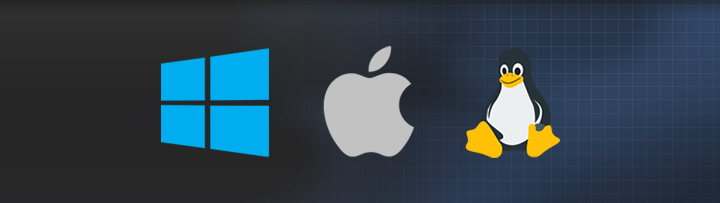
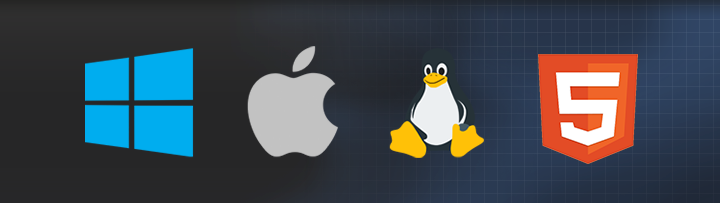
*v0.9.2.

Changed region(s): [[0.0917, 0.2365, 0.8861, 0.8276]]

diff --git a/docs/index.html b/docs/index.html
@@ -56,7 +56,7 @@
 
         <br>
 
-        Bitty Engine is an itty bitty <b>Game Engine</b>. The full featured engine is programmable in Lua and integrated with built-in editors. It keeps the nature of both engine's productivity, and fantasy computer/console's simplicity.
+        Bitty Engine is an itty bitty <b>Game Engine</b>. The full featured engine is programmable in Lua and integrated with built-in editors. It keeps the nature of both engine's productivity, and fantasy computer/console's ease to iterate.
       </p>
 
       <p align="left">
@@ -182,7 +182,7 @@
 
         <br>
 
-        Bitty Engine helps you to make standalone binaries for Windows, MacOS, Linux. It is redistributable for both non-commercial and commercial use without extra fee, your project is totally yours.
+        Bitty Engine helps you to make standalone binaries for Windows, MacOS, Linux and HTML (WebAssembly). It is redistributable for both non-commercial and commercial use without extra fee, your project is totally yours.
       </p>
 
       <h2>
@@ -195,7 +195,7 @@
       </p>
 
       <p align="center">
-        Get the trial version to try out language, libraries, editors, pipelines, etc. from <a href="https://store.steampowered.com/app/1386180/" target="_blank">Steam</a> also.
+        Get the trial version from <a href="https://store.steampowered.com/app/1386180/" target="_blank">Steam</a> also to try out language, libraries, editors, pipelines, etc.
       </p>
 
       <h2>
@@ -213,7 +213,7 @@
           <tbody>
             <tr>
               <td>OS</td>
-              <td>Windows 7/8/10 (32/64bit), MacOS X 10.7 or later (64bit), Ubuntu 14 or later (32/64bit)</td>
+              <td>Windows 7/8/10 (32/64bit), MacOS 10.7 or later (64bit), Ubuntu 14 or later (32/64bit)</td>
             </tr>
             <tr>
               <td>Processor</td>
@@ -229,7 +229,7 @@
             </tr>
             <tr>
               <td>Storage</td>
-              <td>100 MB available space</td>
+              <td>150 MB available space</td>
             </tr>
           </tbody>
         </table>
@@ -238,7 +238,7 @@
       <hr>
 
       <p align="center">
-        © 2020 <a href="https://paladin-t.github.io/" target="_blank">Tony Wang</a> |
+        © 2020 - 2021 <a href="https://paladin-t.github.io/" target="_blank">Tony Wang</a> |
         <a href="changelog.html">Changelog</a>
       </p>
     </div>

diff --git a/docs/about.html b/docs/about.html
@@ -87,7 +87,7 @@
       <hr>
 
       <p align="center">
-        © 2020 <a href="https://paladin-t.github.io/" target="_blank">Tony Wang</a> |
+        © 2020 - 2021 <a href="https://paladin-t.github.io/" target="_blank">Tony Wang</a> |
         <a href="changelog.html">Changelog</a>
       </p>
     </div>

diff --git a/docs/changelog.html b/docs/changelog.html
@@ -43,7 +43,7 @@
       <hr>
 
       <p align="center">
-        © 2020 <a href="https://paladin-t.github.io/" target="_blank">Tony Wang</a> |
+        © 2020 - 2021 <a href="https://paladin-t.github.io/" target="_blank">Tony Wang</a> |
         <a href="changelog.html">Changelog</a>
       </p>
     </div>

diff --git a/docs/documents.html b/docs/documents.html
@@ -42,7 +42,7 @@
       <hr>
 
       <p align="center">
-        © 2020 <a href="https://paladin-t.github.io/" target="_blank">Tony Wang</a> |
+        © 2020 - 2021 <a href="https://paladin-t.github.io/" target="_blank">Tony Wang</a> |
         <a href="changelog.html">Changelog</a>
       </p>
     </div>

diff --git a/docs/manual.html b/docs/manual.html
@@ -50,7 +50,7 @@
       <hr>
 
       <p align="center">
-        © 2020 <a href="https://paladin-t.github.io/" target="_blank">Tony Wang</a> |
+        © 2020 - 2021 <a href="https://paladin-t.github.io/" target="_blank">Tony Wang</a> |
         <a href="changelog.html">Changelog</a>
       </p>
     </div>

diff --git a/docs/operations.html b/docs/operations.html
@@ -50,7 +50,7 @@
       <hr>
 
       <p align="center">
-        © 2020 <a href="https://paladin-t.github.io/" target="_blank">Tony Wang</a> |
+        © 2020 - 2021 <a href="https://paladin-t.github.io/" target="_blank">Tony Wang</a> |
         <a href="changelog.html">Changelog</a>
       </p>
     </div>

diff --git a/docs/style.css b/docs/style.css
@@ -17,7 +17,7 @@ a:visited {
   width: 750px;
   margin: 2em auto;
   padding: 20px 50px;
-  border-radius: 1em;
+  border-radius: 4px;
   background-color: #fff;
   box-shadow: 0px 0px 20px 8px #969696;
   -webkit-box-shadow: 0px 0px 20px 8px #969696;

diff --git a/docs/CHANGELOG.md b/docs/CHANGELOG.md
@@ -1,3 +1,15 @@
+### v0.9.2 beta Dec. 31, 2020
+
+Added HTML builder. Enhanced modules, fixed some bugs.
+
+* Added binary builders for HTML (WebAssembly)
+* Added support to load `Font` object from file directly
+* Fixed a UTF-8 rendering issue of the `text(...)` function
+* Fixed a resolving issue of the `fetch(...)` function
+* Fixed a popup representation issue with built binary
+* Fixed a crash bug with JSON editor (Linux)
+* Fixed a crash bug of the `input(...)` function
+
 ### v0.9.1 beta Dec. 25, 2020
 
 Enhanced modules, improved high-DPI awareness on MacOS, fixed some bugs.
@@ -23,8 +35,8 @@ Added MacOS and Linux versions. Enhanced modules, improved usability, fixed some
 * Added `Promise.Pending`, `Promise.Resolved`, `Promise.Rejected` constant
 * Added `promise.state`, `promise.value` fields
 * Fixed an interaction blocking issue with minor buttons
-* Fixed a text encoding bug with the `Platform.surf(...)`, `Platform.browse(...)` methods
-* Fixed a browsing bug with the frame recorder
+* Fixed a text encoding bug of the `Platform.surf(...)`, `Platform.browse(...)` methods
+* Fixed a browsing bug of the frame recorder
 * Fixed a calculation bug of `vec3:dot(vec3_)`
 * Improved responsiveness for project saving
 * Upgraded Lua from v5.4.1 to v5.4.2
@@ -56,9 +68,9 @@ Improved usability, fixed some bugs, and finished the manual.
 * Added tooltips for some unobvious operations
 * Added detailed font customization by config
 * Changed the `bytes:readBytes(...)`, `file:readBytes(...)` methods, the results' cursor will be at the end
-* Fixed a variable value inspecting bug with the debugger
+* Fixed a variable value inspecting bug of the debugger
 * Fixed a bug of the `fileInfo:empty()` method
-* Fixed a `Bytes` filling bug with the `Network` module
+* Fixed a `Bytes` filling bug of the `Network` module
 * Fixed an unexpected key event bug eg. with LAlt+A
 * Fixed some minor bugs in the examples
 * Improved the behaviour when open project with pending changes

diff --git a/docs/documents/manual.md b/docs/documents/manual.md
@@ -80,6 +80,7 @@
 	* [Export](#export)
 * [Building](#building)
 	* [Building for Desktop](#building-for-desktop)
+	* [Building for HTML](#building-for-html)
 
 [TOP](#reference-manual)
 
@@ -1714,5 +1715,11 @@ Click "Project", "Export..." to select and export some assets to a "*.bit" archi
 ## Building for Desktop
 
 Click "Project", "Build", then "Windows"/"MacOS"/"Linux" to make an executable for Windows/MacOS/Linux respectively with the current opened project.
+
+## Building for HTML
+
+Click "Project", "Build", then "HTML" to make an executable for browser with the current opened project. It requires a WebAssembly capable browser.
+
+You can upload it to cloud or host it on your own server for others to play.
 
 [TOP](#reference-manual)
